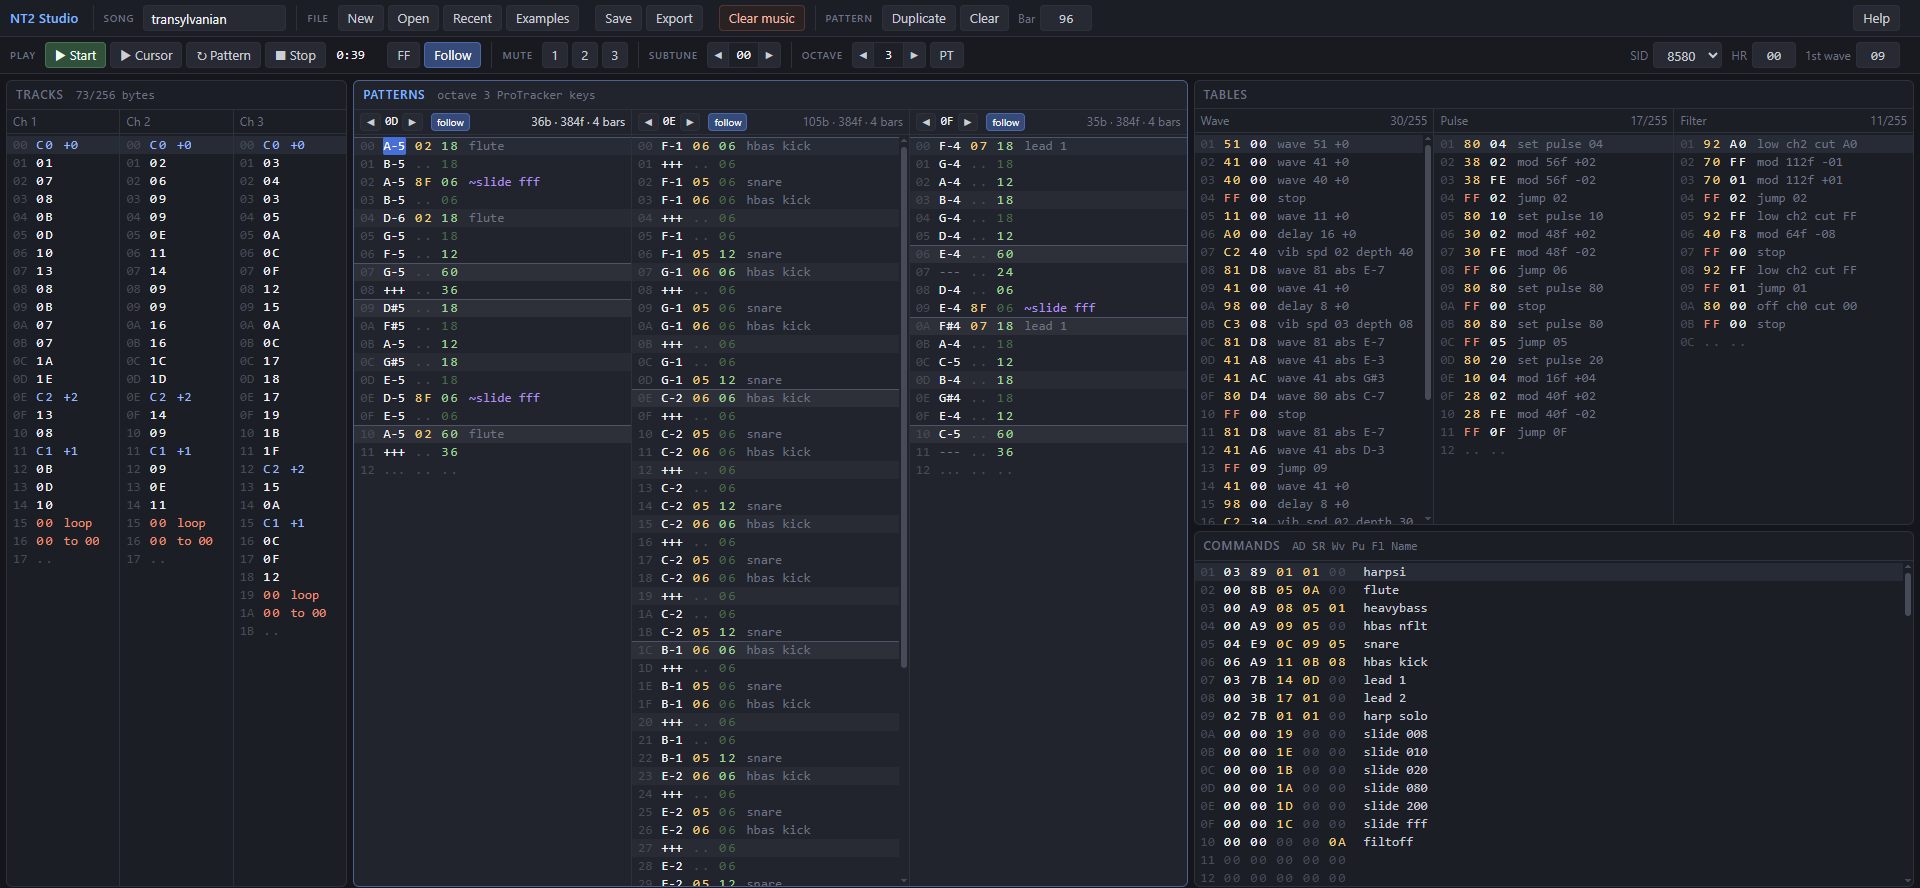
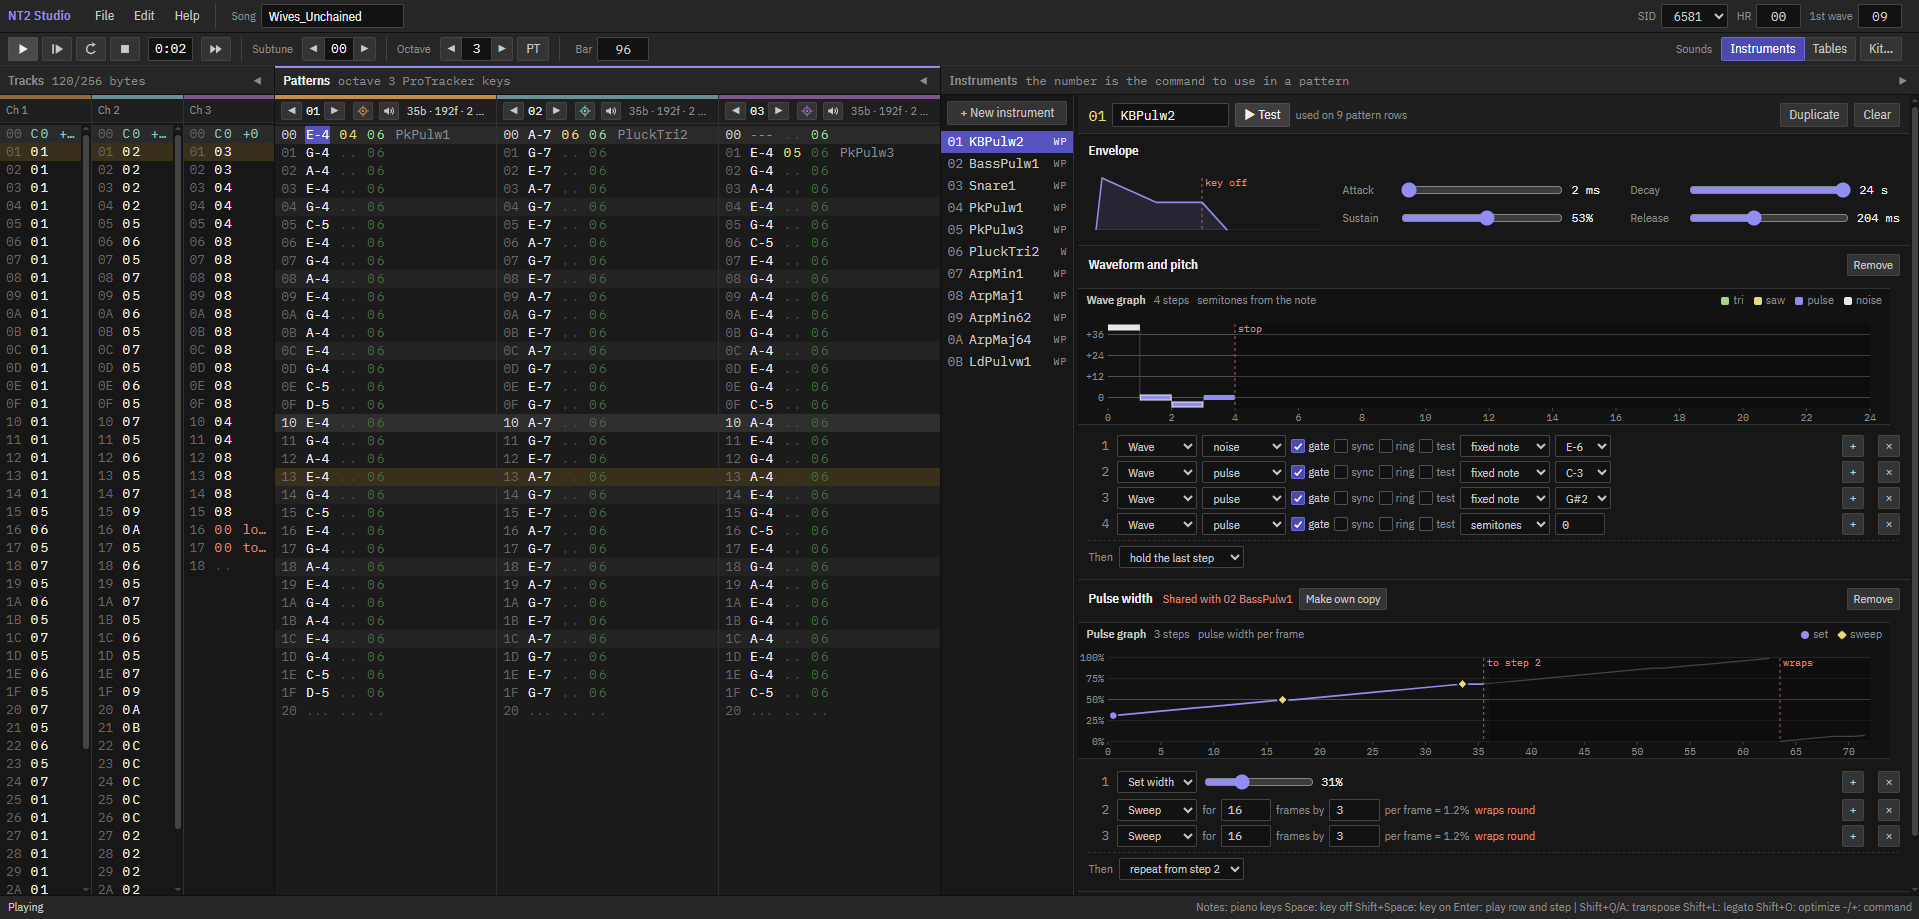
README: screenshot of the restyled editor

diff --git a/README.md b/README.md
@@ -3,7 +3,7 @@
 A modern, cross-platform music editor for the **NinjaTracker V2.03** Commodore 64 playroutine
 by Cadaver (Lasse Öörni). It runs in any current browser on Windows, macOS and Linux.
 
-![NT2 Studio with a song loaded: tracks, three pattern columns, the wave, pulse and filter tables and the command list](docs/screenshot.png)
+![NT2 Studio with a song playing: tracks, three pattern columns, the instrument list and the instrument editor with its wave and pulse graphs](docs/screenshot.png)
 
 - Tracker-style editing of tracks, patterns, wave/pulse/filter tables and commands, with the
   original editor's keys plus mouse support, row selection, undo/redo and all three channels
